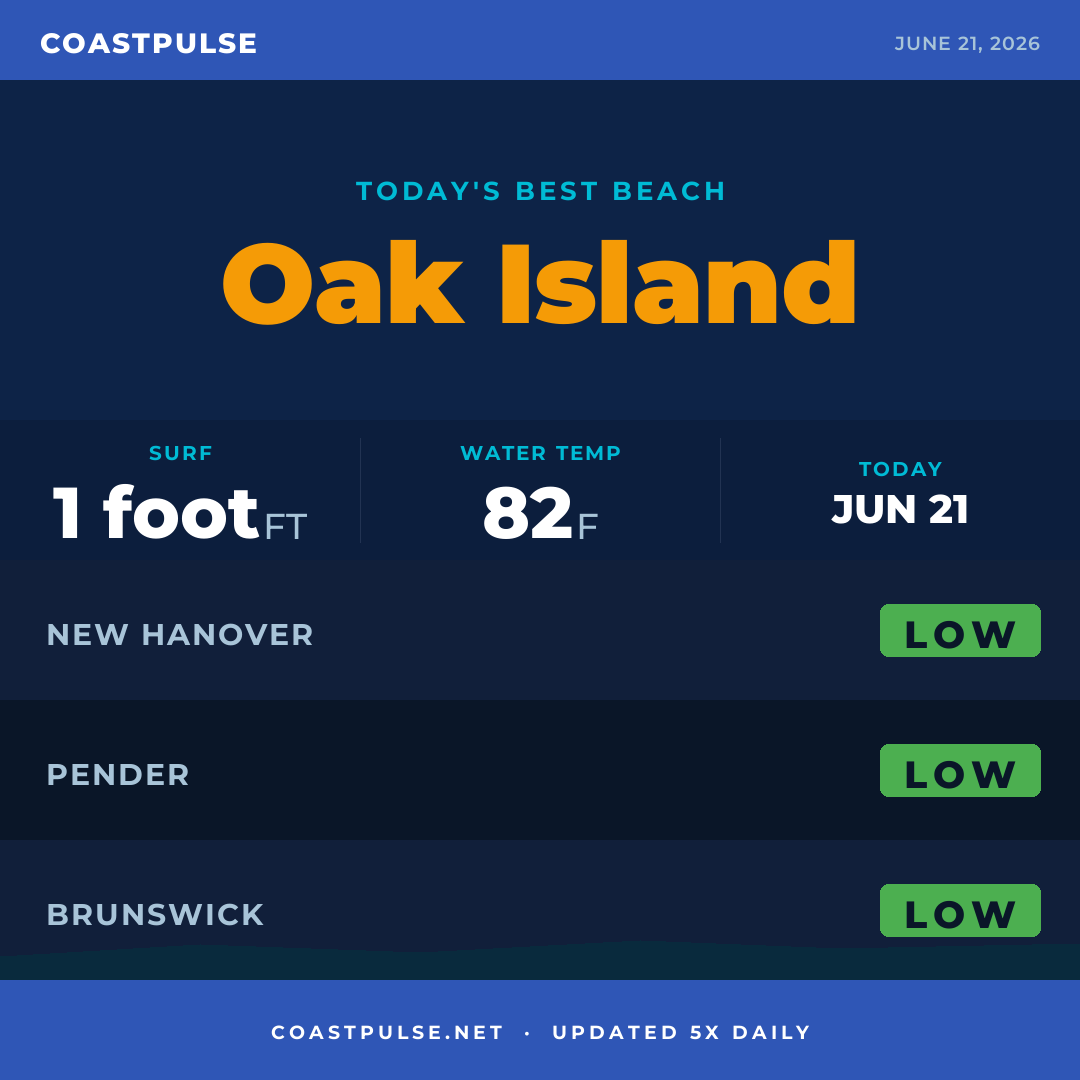
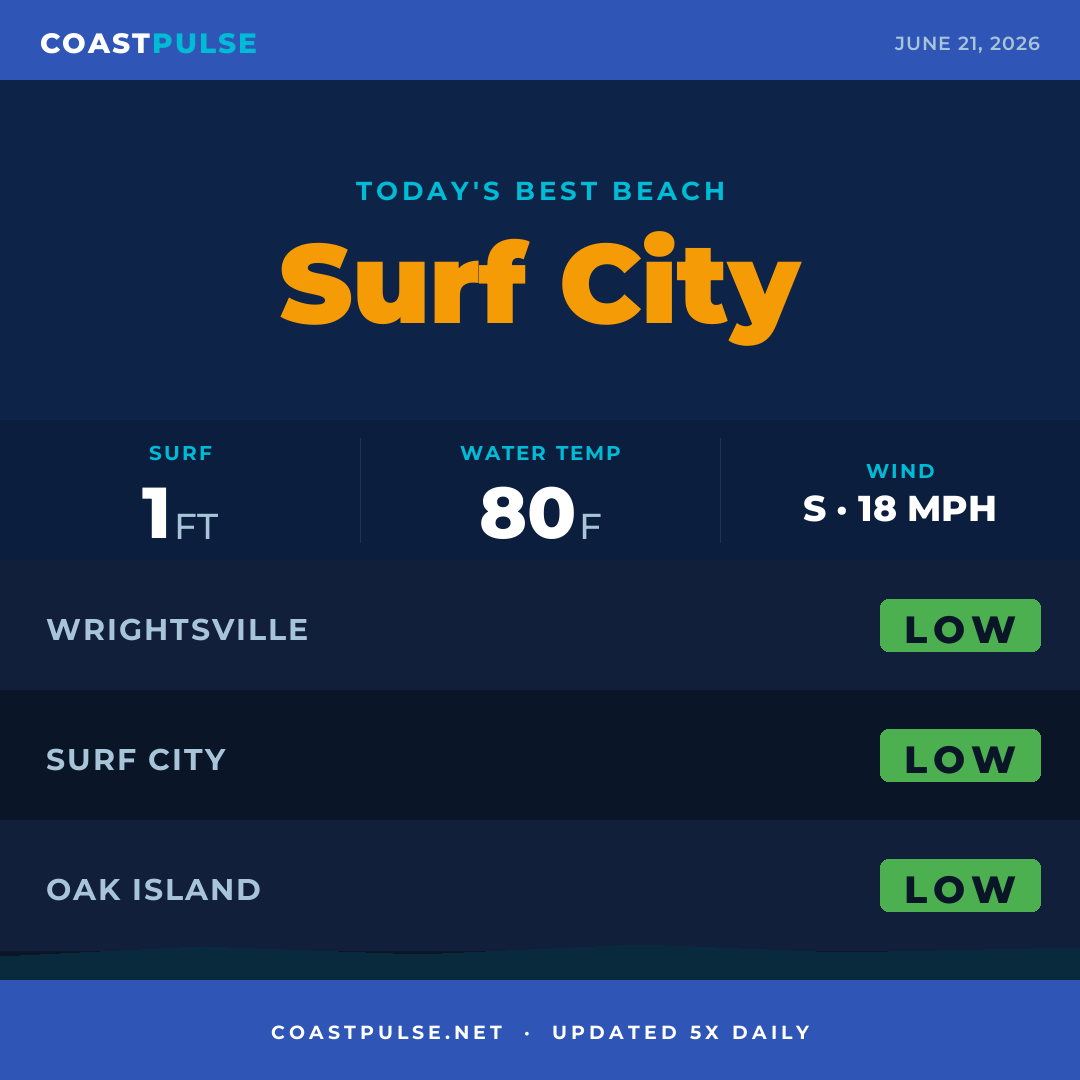
Update report — June 21, 2026

diff --git a/southeastern-nc/index.html b/southeastern-nc/index.html
@@ -199,13 +199,13 @@ a:hover{color:var(--hazard-marine)}
 <div class="cp-page">
 <div class="cp-nav"><a class="cp-nav-brand" href="https://coastpulse.net/" aria-label="CoastPulse home">Coast<span>Pulse</span></a><div class="cp-nav-links"><a href="https://coastpulse.net/southeastern-nc/" class="cp-nav-active">SE NC</a><a href="https://coastpulse.net/myrtle-beach/" class="">Myrtle Beach</a><span class="cp-nav-sep">|</span><a href="#cp-tides">Tides</a><a href="#cp-dogs">Dogs</a><a href="#cp-guide">Guide</a></div></div>
 <div class="cp-alert-banner " role="alert" aria-live="polite"><span class="cp-alert-icon">⚠️</span><div class="cp-alert-content"><div class="cp-alert-eyebrow">NWS Beach Hazards Statement</div><div class="cp-alert-main">Beach Hazards Statement — Beach Hazards Statement issued June 21 at 7:50PM EDT until June 22 at 8:00PM EDT by NWS Wilmington NC</div></div><span class="cp-alert-tag">Official advisory</span></div>
-<div class="cp-hero"><div class="cp-hero-tag">Southeastern NC beaches</div><h1>Sunday beach report</h1><div class="cp-hero-sub">Data as of June 21, 2026 at 08:55 PM ET · Updated 5× daily from NWS Wilmington &amp; NOAA</div><div class="cp-county-tabs"><a class="cp-tab" href="#cp-county-0">New Hanover County</a><a class="cp-tab" href="#cp-county-1">Pender County</a><a class="cp-tab" href="#cp-county-2">Brunswick County</a></div></div>
+<div class="cp-hero"><div class="cp-hero-tag">Southeastern NC beaches</div><h1>Sunday beach report</h1><div class="cp-hero-sub">Data as of June 21, 2026 at 11:10 PM ET · Updated 5× daily from NWS Wilmington &amp; NOAA</div><div class="cp-county-tabs"><a class="cp-tab" href="#cp-county-0">New Hanover County</a><a class="cp-tab" href="#cp-county-1">Pender County</a><a class="cp-tab" href="#cp-county-2">Brunswick County</a></div></div>
 <div class="cp-body" id="cp-conditions">
-<div class="cp-card" id="cp-county-0"><div class="cp-card-header"><span class="cp-card-title">🏖️ New Hanover County</span><span class="cp-card-updated">Wrightsville Beach · Carolina Beach · Kure Beach</span></div><div class="cp-card-body"><div class="cp-row"><span class="cp-label">Rip current risk</span><div class="cp-badge badge-low" role="img" aria-label="Rip current risk: Low risk"><span class="bd">✅</span><span class="bl">Low risk</span></div></div><div class="cp-row"><span class="cp-label">Surf height</span><span class="cp-value">1 foot <span class="cp-surf-verdict surf-mild">Mild</span></span></div><div class="cp-note">Watch for the strong south-to-north longshore current tomorrow, especially if you&#x27;re planning to stay in one spot, and remember that morning low tide at 10:50 AM is your prime shelling window before the next run.</div><div class="cp-nearby-row"><span class="cp-label">Nearby beaches</span><div class="cp-nearby-chips"><span class="cp-nearby-chip">Wrightsville Beach</span><span class="cp-nearby-chip">Carolina Beach<span class="cp-nearby-mi"> 13 mi</span></span><span class="cp-nearby-chip">Kure Beach<span class="cp-nearby-mi"> 16 mi</span></span><span class="cp-nearby-chip">Masonboro Island<span class="cp-nearby-mi"> 8 mi</span></span></div></div></div></div>
-<div class="cp-card" id="cp-county-1"><div class="cp-card-header"><span class="cp-card-title">🏖️ Pender County</span><span class="cp-card-updated">Surf City · Topsail Beach</span></div><div class="cp-card-body"><div class="cp-row"><span class="cp-label">Rip current risk</span><div class="cp-badge badge-low" role="img" aria-label="Rip current risk: Low risk"><span class="bd">✅</span><span class="bl">Low risk</span></div></div><div class="cp-row"><span class="cp-label">Surf height</span><span class="cp-value">1–3 ft <span class="cp-surf-verdict surf-mild">Mild</span></span></div><div class="cp-note">The moderate south-to-north longshore current tomorrow is manageable with low rip current risk, but stay aware of the current&#x27;s drift if you&#x27;re swimming or floating for a while.</div><div class="cp-nearby-row"><span class="cp-label">Nearby beaches</span><div class="cp-nearby-chips"><span class="cp-nearby-chip">Surf City</span><span class="cp-nearby-chip">Topsail Beach<span class="cp-nearby-mi"> 3 mi</span></span><span class="cp-nearby-chip">North Topsail Beach<span class="cp-nearby-mi"> 8 mi</span></span><span class="cp-nearby-chip">Figure Eight Island<span class="cp-nearby-mi"> 18 mi</span></span></div></div></div></div>
-<div class="cp-card" id="cp-county-2"><div class="cp-card-header"><span class="cp-card-title">🏖️ Brunswick County</span><span class="cp-card-updated">Oak Island · Holden Beach · Ocean Isle Beach · Sunset Beach</span></div><div class="cp-card-body"><div class="cp-row"><span class="cp-label">Rip current risk</span><div class="cp-badge badge-low" role="img" aria-label="Rip current risk: Low risk"><span class="bd">✅</span><span class="bl">Low risk</span></div></div><div class="cp-row"><span class="cp-label">Surf height</span><span class="cp-value">1–3 ft <span class="cp-surf-verdict surf-mild">Mild</span></span></div><div class="cp-note">Catch the moderate west-to-east longshore current in the morning tomorrow before it shifts, and note that low tide arrives at 10:50 AM for the best shelling opportunity of the day.</div><div class="cp-nearby-row"><span class="cp-label">Nearby beaches</span><div class="cp-nearby-chips"><span class="cp-nearby-chip">Oak Island</span><span class="cp-nearby-chip">Holden Beach<span class="cp-nearby-mi"> 12 mi</span></span><span class="cp-nearby-chip">Ocean Isle Beach<span class="cp-nearby-mi"> 20 mi</span></span><span class="cp-nearby-chip">Sunset Beach<span class="cp-nearby-mi"> 25 mi</span></span><span class="cp-nearby-chip">Bald Head Island<span class="cp-nearby-mi"> 14 mi</span></span></div></div></div></div>
-<div class="cp-card"><div class="cp-card-header"><span class="cp-card-title">🕐 Hourly forecast</span><span class="cp-card-updated">Next 10 hours · Wrightsville Beach ref.</span></div><div class="cp-hourly-scroll"><div class="cp-hourly-slot"><div class="cp-hourly-time">8<span style='font-size:9px'> PM</span></div><div class="cp-hourly-icon">☀️</div><div class="cp-hourly-temp">82°</div><div class="cp-hourly-rain" style="color:#999">1%</div></div><div class="cp-hourly-slot"><div class="cp-hourly-time">9<span style='font-size:9px'> PM</span></div><div class="cp-hourly-icon">☀️</div><div class="cp-hourly-temp">81°</div><div class="cp-hourly-rain" style="color:#999">1%</div></div><div class="cp-hourly-slot"><div class="cp-hourly-time">10<span style='font-size:9px'> PM</span></div><div class="cp-hourly-icon">☀️</div><div class="cp-hourly-temp">80°</div><div class="cp-hourly-rain" style="color:#999">1%</div></div><div class="cp-hourly-slot"><div class="cp-hourly-time">11<span style='font-size:9px'> PM</span></div><div class="cp-hourly-icon">☀️</div><div class="cp-hourly-temp">80°</div><div class="cp-hourly-rain" style="color:#999">2%</div></div><div class="cp-hourly-slot"><div class="cp-hourly-time">12<span style='font-size:9px'> AM</span></div><div class="cp-hourly-icon">☁️</div><div class="cp-hourly-temp">79°</div><div class="cp-hourly-rain" style="color:#999">2%</div></div><div class="cp-hourly-slot"><div class="cp-hourly-time">1<span style='font-size:9px'> AM</span></div><div class="cp-hourly-icon">☁️</div><div class="cp-hourly-temp">79°</div><div class="cp-hourly-rain" style="color:#999">2%</div></div><div class="cp-hourly-slot"><div class="cp-hourly-time">2<span style='font-size:9px'> AM</span></div><div class="cp-hourly-icon">☀️</div><div class="cp-hourly-temp">79°</div><div class="cp-hourly-rain" style="color:#999">2%</div></div><div class="cp-hourly-slot"><div class="cp-hourly-time">3<span style='font-size:9px'> AM</span></div><div class="cp-hourly-icon">☀️</div><div class="cp-hourly-temp">79°</div><div class="cp-hourly-rain" style="color:#999">2%</div></div><div class="cp-hourly-slot"><div class="cp-hourly-time">4<span style='font-size:9px'> AM</span></div><div class="cp-hourly-icon">☁️</div><div class="cp-hourly-temp">79°</div><div class="cp-hourly-rain" style="color:#999">2%</div></div><div class="cp-hourly-slot"><div class="cp-hourly-time">5<span style='font-size:9px'> AM</span></div><div class="cp-hourly-icon">☁️</div><div class="cp-hourly-temp">78°</div><div class="cp-hourly-rain" style="color:#999">3%</div></div></div></div>
-<div class="cp-card"><div class="cp-card-header"><span class="cp-card-title">🌟 Best beach bet</span></div><div class="cp-card-body"><div class="cp-row"><span class="cp-label">Top pick today</span><span class="cp-value">Surf City (Pender County)</span></div><div class="cp-note">Pender&#x27;s got slightly bigger surf in the 1 to 3 foot range with calm southwest winds around 10 mph, giving you the smoothest water and gentlest conditions for swimming or paddling tomorrow.</div></div></div>
+<div class="cp-card" id="cp-county-0"><div class="cp-card-header"><span class="cp-card-title">🏖️ New Hanover County</span><span class="cp-card-updated">Wrightsville Beach · Carolina Beach · Kure Beach</span></div><div class="cp-card-body"><div class="cp-row"><span class="cp-label">Rip current risk</span><div class="cp-badge badge-low" role="img" aria-label="Rip current risk: Low risk"><span class="bd">✅</span><span class="bl">Low risk</span></div></div><div class="cp-row"><span class="cp-label">Surf height</span><span class="cp-value">1 foot <span class="cp-surf-verdict surf-mild">Mild</span></span></div><div class="cp-note">Watch the strong south-to-north longshore current tomorrow, especially if you&#x27;re planning a longer swim or wade, since it&#x27;ll push you steadily up the beach.</div><div class="cp-nearby-row"><span class="cp-label">Nearby beaches</span><div class="cp-nearby-chips"><span class="cp-nearby-chip">Wrightsville Beach</span><span class="cp-nearby-chip">Carolina Beach<span class="cp-nearby-mi"> 13 mi</span></span><span class="cp-nearby-chip">Kure Beach<span class="cp-nearby-mi"> 16 mi</span></span><span class="cp-nearby-chip">Masonboro Island<span class="cp-nearby-mi"> 8 mi</span></span></div></div></div></div>
+<div class="cp-card" id="cp-county-1"><div class="cp-card-header"><span class="cp-card-title">🏖️ Pender County</span><span class="cp-card-updated">Surf City · Topsail Beach</span></div><div class="cp-card-body"><div class="cp-row"><span class="cp-label">Rip current risk</span><div class="cp-badge badge-low" role="img" aria-label="Rip current risk: Low risk"><span class="bd">✅</span><span class="bl">Low risk</span></div></div><div class="cp-row"><span class="cp-label">Surf height</span><span class="cp-value">1–3 ft <span class="cp-surf-verdict surf-mild">Mild</span></span></div><div class="cp-note">The moderate south-to-north longshore current and 1 to 3-foot surf tomorrow mean you&#x27;ll have enough swell to play in without the risk of rough water or dangerous rips.</div><div class="cp-nearby-row"><span class="cp-label">Nearby beaches</span><div class="cp-nearby-chips"><span class="cp-nearby-chip">Surf City</span><span class="cp-nearby-chip">Topsail Beach<span class="cp-nearby-mi"> 3 mi</span></span><span class="cp-nearby-chip">North Topsail Beach<span class="cp-nearby-mi"> 8 mi</span></span><span class="cp-nearby-chip">Figure Eight Island<span class="cp-nearby-mi"> 18 mi</span></span></div></div></div></div>
+<div class="cp-card" id="cp-county-2"><div class="cp-card-header"><span class="cp-card-title">🏖️ Brunswick County</span><span class="cp-card-updated">Oak Island · Holden Beach · Ocean Isle Beach · Sunset Beach</span></div><div class="cp-card-body"><div class="cp-row"><span class="cp-label">Rip current risk</span><div class="cp-badge badge-low" role="img" aria-label="Rip current risk: Low risk"><span class="bd">✅</span><span class="bl">Low risk</span></div></div><div class="cp-row"><span class="cp-label">Surf height</span><span class="cp-value">1–3 ft <span class="cp-surf-verdict surf-mild">Mild</span></span></div><div class="cp-note">Tomorrow morning you&#x27;ll catch a moderate west-to-east longshore current before it shifts, so time your early beach visit if you want to work with the current instead of against it.</div><div class="cp-nearby-row"><span class="cp-label">Nearby beaches</span><div class="cp-nearby-chips"><span class="cp-nearby-chip">Oak Island</span><span class="cp-nearby-chip">Holden Beach<span class="cp-nearby-mi"> 12 mi</span></span><span class="cp-nearby-chip">Ocean Isle Beach<span class="cp-nearby-mi"> 20 mi</span></span><span class="cp-nearby-chip">Sunset Beach<span class="cp-nearby-mi"> 25 mi</span></span><span class="cp-nearby-chip">Bald Head Island<span class="cp-nearby-mi"> 14 mi</span></span></div></div></div></div>
+<div class="cp-card"><div class="cp-card-header"><span class="cp-card-title">🕐 Hourly forecast</span><span class="cp-card-updated">Next 10 hours · Wrightsville Beach ref.</span></div><div class="cp-hourly-scroll"><div class="cp-hourly-slot"><div class="cp-hourly-time">11<span style='font-size:9px'> PM</span></div><div class="cp-hourly-icon">☀️</div><div class="cp-hourly-temp">80°</div><div class="cp-hourly-rain" style="color:#999">2%</div></div><div class="cp-hourly-slot"><div class="cp-hourly-time">12<span style='font-size:9px'> AM</span></div><div class="cp-hourly-icon">☁️</div><div class="cp-hourly-temp">79°</div><div class="cp-hourly-rain" style="color:#999">2%</div></div><div class="cp-hourly-slot"><div class="cp-hourly-time">1<span style='font-size:9px'> AM</span></div><div class="cp-hourly-icon">☁️</div><div class="cp-hourly-temp">79°</div><div class="cp-hourly-rain" style="color:#999">2%</div></div><div class="cp-hourly-slot"><div class="cp-hourly-time">2<span style='font-size:9px'> AM</span></div><div class="cp-hourly-icon">☀️</div><div class="cp-hourly-temp">79°</div><div class="cp-hourly-rain" style="color:#999">2%</div></div><div class="cp-hourly-slot"><div class="cp-hourly-time">3<span style='font-size:9px'> AM</span></div><div class="cp-hourly-icon">☀️</div><div class="cp-hourly-temp">79°</div><div class="cp-hourly-rain" style="color:#999">2%</div></div><div class="cp-hourly-slot"><div class="cp-hourly-time">4<span style='font-size:9px'> AM</span></div><div class="cp-hourly-icon">☁️</div><div class="cp-hourly-temp">79°</div><div class="cp-hourly-rain" style="color:#999">2%</div></div><div class="cp-hourly-slot"><div class="cp-hourly-time">5<span style='font-size:9px'> AM</span></div><div class="cp-hourly-icon">☁️</div><div class="cp-hourly-temp">78°</div><div class="cp-hourly-rain" style="color:#999">3%</div></div><div class="cp-hourly-slot"><div class="cp-hourly-time">6<span style='font-size:9px'> AM</span></div><div class="cp-hourly-icon">☀️</div><div class="cp-hourly-temp">78°</div><div class="cp-hourly-rain" style="color:#999">3%</div></div><div class="cp-hourly-slot"><div class="cp-hourly-time">7<span style='font-size:9px'> AM</span></div><div class="cp-hourly-icon">☀️</div><div class="cp-hourly-temp">79°</div><div class="cp-hourly-rain" style="color:#999">4%</div></div><div class="cp-hourly-slot"><div class="cp-hourly-time">8<span style='font-size:9px'> AM</span></div><div class="cp-hourly-icon">☀️</div><div class="cp-hourly-temp">80°</div><div class="cp-hourly-rain" style="color:#999">6%</div></div></div></div>
+<div class="cp-card"><div class="cp-card-header"><span class="cp-card-title">🌟 Best beach bet</span></div><div class="cp-card-body"><div class="cp-row"><span class="cp-label">Top pick today</span><span class="cp-value">Surf City (Pender County)</span></div><div class="cp-note">A strong south-to-north longshore current and 1 to 3-foot waves make tomorrow ideal for swimmers and body surfers who want a little more action than flat-water conditions, plus the moderate longshore will keep you moving along the beach without fighting the water.</div></div></div>
 <div class="cp-card"><div class="cp-card-header"><span class="cp-card-title">📋 Plan your beach day</span><span class="cp-card-updated">Condition-aware tips</span></div><ul class="cp-tips-list"><li class="cp-tip-item"><span class="cp-tip-icon">☀️</span><span class="cp-tip-text">Clear skies ahead — no significant rain in the next 10 hours. Great day to stay all day.</span></li><li class="cp-tip-item"><span class="cp-tip-icon">🏊</span><span class="cp-tip-text">Surf is 1 foot — great conditions for swimming, paddleboarding, or a first-time ocean dip.</span></li><li class="cp-tip-item"><span class="cp-tip-icon">🐚</span><span class="cp-tip-text">Low tide is prime shelling time — the wider the dry sand, the better the finds. Check the tide table below to plan your walk.</span></li></ul></div>
 <div class="cp-card" id="cp-tides"><div class="cp-card-header"><span class="cp-card-title">🌊 Tides &amp; daylight</span><span class="cp-card-updated">NOAA CO-OPS · Wrightsville Beach</span></div><div class="cp-card-body"><div class="cp-row"><span class="cp-label">🌅 Sunrise</span><span class="cp-value">5:59 AM</span></div><div class="cp-row" style="margin-top:-6px;"><span></span><span class="cp-note" style="border-top:none;padding-top:0;margin-top:0;">EDT</span></div><div class="cp-row"><span class="cp-label">🌊 High Tide</span><span class="cp-value">4:18 AM &amp; &amp; 4:56 PM</span></div><div class="cp-row" style="margin-top:-6px;"><span></span><span class="cp-note" style="border-top:none;padding-top:0;margin-top:0;">4.4 ft</span></div><div class="cp-row"><span class="cp-label">🏖️ Low Tide</span><span class="cp-value">10:50 AM &amp; &amp; 11:21 PM</span></div><div class="cp-row" style="margin-top:-6px;"><span></span><span class="cp-note" style="border-top:none;padding-top:0;margin-top:0;">Great shelling window</span></div><div class="cp-row"><span class="cp-label">🌆 Sunset</span><span class="cp-value">8:26 PM</span></div><div class="cp-row" style="margin-top:-6px;"><span></span><span class="cp-note" style="border-top:none;padding-top:0;margin-top:0;">EDT</span></div><div class="cp-row"><span class="cp-label">☀️ Sky</span><span class="cp-value">Sunny</span></div><div class="cp-row" style="margin-top:-6px;"><span></span><span class="cp-note" style="border-top:none;padding-top:0;margin-top:0;">Mild &amp; pleasant</span></div></div></div>
 <div><div class="cp-section-label">3-day forecast</div><div class="cp-card"><div class="cp-forecast"><div class="cp-fc-day"><div class="cp-fc-label">Mon, Jun 22</div><div class="cp-fc-icon">☀️</div><div class="cp-fc-temp">High <strong>83°F</strong> &middot; Low <strong>80°F</strong></div><div class="cp-fc-cond">Sunny</div><div class="cp-fc-detail">S 8 to 18 mph &middot; Waves 1 foot &middot; Rip risk Low (New Hanover)</div></div><div class="cp-fc-day"><div class="cp-fc-label">Tue, Jun 23</div><div class="cp-fc-icon">⛈️</div><div class="cp-fc-temp">High <strong>86°F</strong> &middot; Low <strong>76°F</strong></div><div class="cp-fc-cond">Sunny then Slight Chance Showers And Thunderstorms</div><div class="cp-fc-detail">SW 12 to 15 mph &middot; Monitor rip outlook</div></div><div class="cp-fc-day"><div class="cp-fc-label">Wed, Jun 24</div><div class="cp-fc-icon">🌤️</div><div class="cp-fc-temp">High <strong>81°F</strong> &middot; Low <strong>77°F</strong></div><div class="cp-fc-cond">Mostly Sunny</div><div class="cp-fc-detail">NE 12 mph &middot; Monitor rip outlook</div></div></div></div></div>
@@ -216,5 +216,5 @@ a:hover{color:var(--hazard-marine)}
 <div class="cp-card" id="cp-guide"><div class="cp-card-header"><span class="cp-card-title">Rip Current &amp; Hazard Scale</span></div><div class="cp-badge-gallery"><div class="cp-badge-row"><div class="cp-badge badge-low"><span class="bd">✅</span><span class="bl">Low risk</span></div><span class="cp-badge-desc">Safe for most swimmers near a lifeguard</span></div><div class="cp-badge-row"><div class="cp-badge badge-mod"><span class="bd">⚠️</span><span class="bl">Moderate risk</span></div><span class="cp-badge-desc">Weak swimmers should stay out; others use caution</span></div><div class="cp-badge-row"><div class="cp-badge badge-high"><span class="bd">🚨</span><span class="bl">High risk</span></div><span class="cp-badge-desc">Only strong swimmers — rip currents likely</span></div><div class="cp-badge-row"><div class="cp-badge badge-closed"><span class="bd">🚫</span><span class="bl">Closure advisory</span></div><span class="cp-badge-desc">Beach closed — no swimming</span></div><div class="cp-badge-row"><div class="cp-badge badge-marine"><span class="bd">🐠</span><span class="bl">Marine alert</span></div><span class="cp-badge-desc">Active NWS marine or surf zone warning</span></div></div></div>
 </div>
 <div class="cp-card" style="max-width:520px;margin:20px auto;text-align:center;padding:28px 24px;"><style>.formkit-form[data-uid="1f4e99c79d"] {  background:transparent!important;border:none!important;  box-shadow:none!important;padding:0!important;margin:0!important;}.formkit-form[data-uid="1f4e99c79d"] .formkit-submit {  background:#00BBD5!important;border-radius:8px!important;  font-weight:700!important;}.formkit-form[data-uid="1f4e99c79d"] input[data-element="email"] {  border-radius:8px!important;border:1px solid #dde3f0!important;  font-family:inherit!important;}</style><div style="font-size:26px;margin-bottom:8px;">📬</div><h3 style="color:#2F56B6;margin:0 0 6px;font-size:18px;font-weight:700;">Get Daily Beach Conditions</h3><p style="color:#666;font-size:14px;margin:0 0 18px;line-height:1.5;">Free email every morning at 8 AM — rip current risk, best beach, and tides. No spam, unsubscribe anytime.</p><script async data-uid="1f4e99c79d" src="https://coastpulse.kit.com/1f4e99c79d/index.js"></script></div>
-<div class="cp-footer"><div class="cp-footer-row"><div><div><strong>CoastPulse &middot; Southeastern NC</strong></div><div>Updated: June 21, 2026 at 08:55 PM ET &middot; Data: NWS Wilmington &amp;amp; NOAA &middot; <a href="https://coastpulse.net/">coastpulse.net</a></div><div>Always verify current conditions at <a href="https://weather.gov/ilm" target="_blank" rel="noopener">weather.gov/ilm</a> before entering the water.</div><div class="cp-footer-regions">Other reports: <a href="https://coastpulse.net/myrtle-beach/">Grand Strand</a></div><div class="cp-footer-regions" style="margin-top:6px;"><a href="https://coastpulse.net/privacy/">Privacy Policy</a> · <a href="https://coastpulse.net/terms/">Terms of Service</a></div></div></div></div>
+<div class="cp-footer"><div class="cp-footer-row"><div><div><strong>CoastPulse &middot; Southeastern NC</strong></div><div>Updated: June 21, 2026 at 11:10 PM ET &middot; Data: NWS Wilmington &amp;amp; NOAA &middot; <a href="https://coastpulse.net/">coastpulse.net</a></div><div>Always verify current conditions at <a href="https://weather.gov/ilm" target="_blank" rel="noopener">weather.gov/ilm</a> before entering the water.</div><div class="cp-footer-regions">Other reports: <a href="https://coastpulse.net/myrtle-beach/">Grand Strand</a></div><div class="cp-footer-regions" style="margin-top:6px;"><a href="https://coastpulse.net/privacy/">Privacy Policy</a> · <a href="https://coastpulse.net/terms/">Terms of Service</a></div></div></div></div>
 </div></body></html>

diff --git a/index.html b/index.html
@@ -195,4 +195,4 @@ a:hover{color:var(--hazard-marine)}
   .cp-fc-day{min-width:90px}
   .cp-hub-grid{grid-template-columns:1fr;padding:12px}
 }
-</style></head><body><div class="cp-hub-hero"><h1>Coast<span style="color:var(--cp-surf-blue)">Pulse</span></h1><p>Real-time beach conditions for the Southeast Atlantic coast</p></div><div class="cp-nav" style="position:relative;"><a class="cp-nav-brand" href="https://coastpulse.net/">Coast<span>Pulse</span></a><div class="cp-nav-links"><a href="https://coastpulse.net/southeastern-nc/">SE NC</a><a href="https://coastpulse.net/myrtle-beach/">Myrtle Beach</a></div></div><div class="cp-hub-grid"><div class="cp-hub-card"><div class="cp-hub-card-header"><div class="cp-hub-card-title">Southeastern NC</div><div class="cp-hub-card-sub">New Hanover · Pender · Brunswick Counties</div></div><div class="cp-hub-card-body"><div class="cp-hub-risks"><div class="cp-hub-risk-row"><span class="cp-hub-county">New Hanover</span><div class="cp-badge badge-low" role="img" aria-label="Rip current risk: Low risk"><span class="bd">✅</span><span class="bl">Low risk</span></div></div><div class="cp-hub-risk-row"><span class="cp-hub-county">Pender</span><div class="cp-badge badge-low" role="img" aria-label="Rip current risk: Low risk"><span class="bd">✅</span><span class="bl">Low risk</span></div></div><div class="cp-hub-risk-row"><span class="cp-hub-county">Brunswick</span><div class="cp-badge badge-low" role="img" aria-label="Rip current risk: Low risk"><span class="bd">✅</span><span class="bl">Low risk</span></div></div></div><div class="cp-hub-bet">🌟 Best bet: <strong>Surf City (Pender County)</strong></div><div class="cp-hub-updated">Updated: June 21, 2026 at 08:55 PM ET</div></div><a class="cp-hub-cta" href="https://coastpulse.net/southeastern-nc/">Full report, tides &amp; forecast →</a></div><div class="cp-hub-card"><div class="cp-hub-card-header"><div class="cp-hub-card-title">Grand Strand</div><div class="cp-hub-card-sub">Horry · Georgetown Counties</div></div><div class="cp-hub-card-body"><div class="cp-hub-risks"><div class="cp-hub-risk-row"><span class="cp-hub-county">Horry</span><div class="cp-badge badge-low" role="img" aria-label="Rip current risk: Low risk"><span class="bd">✅</span><span class="bl">Low risk</span></div></div><div class="cp-hub-risk-row"><span class="cp-hub-county">Georgetown</span><div class="cp-badge badge-low" role="img" aria-label="Rip current risk: Low risk"><span class="bd">✅</span><span class="bl">Low risk</span></div></div></div><div class="cp-hub-bet">🌟 Best bet: <strong>Georgetown County</strong></div><div class="cp-hub-updated">Updated: June 21, 2026 at 08:55 PM ET</div></div><a class="cp-hub-cta" href="https://coastpulse.net/myrtle-beach/">Full report, tides &amp; forecast →</a></div></div><div class="cp-card" style="max-width:520px;margin:20px auto;text-align:center;padding:28px 24px;"><style>.formkit-form[data-uid="1f4e99c79d"] {  background:transparent!important;border:none!important;  box-shadow:none!important;padding:0!important;margin:0!important;}.formkit-form[data-uid="1f4e99c79d"] .formkit-submit {  background:#00BBD5!important;border-radius:8px!important;  font-weight:700!important;}.formkit-form[data-uid="1f4e99c79d"] input[data-element="email"] {  border-radius:8px!important;border:1px solid #dde3f0!important;  font-family:inherit!important;}</style><div style="font-size:26px;margin-bottom:8px;">📬</div><h3 style="color:#2F56B6;margin:0 0 6px;font-size:18px;font-weight:700;">Get Daily Beach Conditions</h3><p style="color:#666;font-size:14px;margin:0 0 18px;line-height:1.5;">Free email every morning at 8 AM — rip current risk, best beach, and tides. No spam, unsubscribe anytime.</p><script async data-uid="1f4e99c79d" src="https://coastpulse.kit.com/1f4e99c79d/index.js"></script></div><div class="cp-footer" style="margin-top:20px;"><div class="cp-footer-row"><div><div><strong>CoastPulse</strong></div><div>Real-time beach data from NOAA &amp; NWS · coastpulse.net</div><div>Always verify conditions before entering the water.</div></div></div></div></body></html>
+</style></head><body><div class="cp-hub-hero"><h1>Coast<span style="color:var(--cp-surf-blue)">Pulse</span></h1><p>Real-time beach conditions for the Southeast Atlantic coast</p></div><div class="cp-nav" style="position:relative;"><a class="cp-nav-brand" href="https://coastpulse.net/">Coast<span>Pulse</span></a><div class="cp-nav-links"><a href="https://coastpulse.net/southeastern-nc/">SE NC</a><a href="https://coastpulse.net/myrtle-beach/">Myrtle Beach</a></div></div><div class="cp-hub-grid"><div class="cp-hub-card"><div class="cp-hub-card-header"><div class="cp-hub-card-title">Southeastern NC</div><div class="cp-hub-card-sub">New Hanover · Pender · Brunswick Counties</div></div><div class="cp-hub-card-body"><div class="cp-hub-risks"><div class="cp-hub-risk-row"><span class="cp-hub-county">New Hanover</span><div class="cp-badge badge-low" role="img" aria-label="Rip current risk: Low risk"><span class="bd">✅</span><span class="bl">Low risk</span></div></div><div class="cp-hub-risk-row"><span class="cp-hub-county">Pender</span><div class="cp-badge badge-low" role="img" aria-label="Rip current risk: Low risk"><span class="bd">✅</span><span class="bl">Low risk</span></div></div><div class="cp-hub-risk-row"><span class="cp-hub-county">Brunswick</span><div class="cp-badge badge-low" role="img" aria-label="Rip current risk: Low risk"><span class="bd">✅</span><span class="bl">Low risk</span></div></div></div><div class="cp-hub-bet">🌟 Best bet: <strong>Surf City (Pender County)</strong></div><div class="cp-hub-updated">Updated: June 21, 2026 at 11:10 PM ET</div></div><a class="cp-hub-cta" href="https://coastpulse.net/southeastern-nc/">Full report, tides &amp; forecast →</a></div><div class="cp-hub-card"><div class="cp-hub-card-header"><div class="cp-hub-card-title">Grand Strand</div><div class="cp-hub-card-sub">Horry · Georgetown Counties</div></div><div class="cp-hub-card-body"><div class="cp-hub-risks"><div class="cp-hub-risk-row"><span class="cp-hub-county">Horry</span><div class="cp-badge badge-low" role="img" aria-label="Rip current risk: Low risk"><span class="bd">✅</span><span class="bl">Low risk</span></div></div><div class="cp-hub-risk-row"><span class="cp-hub-county">Georgetown</span><div class="cp-badge badge-low" role="img" aria-label="Rip current risk: Low risk"><span class="bd">✅</span><span class="bl">Low risk</span></div></div></div><div class="cp-hub-bet">🌟 Best bet: <strong>Georgetown County</strong></div><div class="cp-hub-updated">Updated: June 21, 2026 at 08:55 PM ET</div></div><a class="cp-hub-cta" href="https://coastpulse.net/myrtle-beach/">Full report, tides &amp; forecast →</a></div></div><div class="cp-card" style="max-width:520px;margin:20px auto;text-align:center;padding:28px 24px;"><style>.formkit-form[data-uid="1f4e99c79d"] {  background:transparent!important;border:none!important;  box-shadow:none!important;padding:0!important;margin:0!important;}.formkit-form[data-uid="1f4e99c79d"] .formkit-submit {  background:#00BBD5!important;border-radius:8px!important;  font-weight:700!important;}.formkit-form[data-uid="1f4e99c79d"] input[data-element="email"] {  border-radius:8px!important;border:1px solid #dde3f0!important;  font-family:inherit!important;}</style><div style="font-size:26px;margin-bottom:8px;">📬</div><h3 style="color:#2F56B6;margin:0 0 6px;font-size:18px;font-weight:700;">Get Daily Beach Conditions</h3><p style="color:#666;font-size:14px;margin:0 0 18px;line-height:1.5;">Free email every morning at 8 AM — rip current risk, best beach, and tides. No spam, unsubscribe anytime.</p><script async data-uid="1f4e99c79d" src="https://coastpulse.kit.com/1f4e99c79d/index.js"></script></div><div class="cp-footer" style="margin-top:20px;"><div class="cp-footer-row"><div><div><strong>CoastPulse</strong></div><div>Real-time beach data from NOAA &amp; NWS · coastpulse.net</div><div>Always verify conditions before entering the water.</div></div></div></div></body></html>

diff --git a/widget-sunny.html b/widget-sunny.html
@@ -84,7 +84,7 @@ body { font-family: 'Montserrat', Arial, sans-serif; background: transparent; }
     <div class="w-row"><span class="w-county">New Hanover</span><div class="w-badge badge-low"><span class="bd">✅</span><span class="bl">Low risk</span></div></div><div class="w-row"><span class="w-county">Pender</span><div class="w-badge badge-low"><span class="bd">✅</span><span class="bl">Low risk</span></div></div><div class="w-row"><span class="w-county">Brunswick</span><div class="w-badge badge-low"><span class="bd">✅</span><span class="bl">Low risk</span></div></div>
     <hr class="w-divider">
     <div class="w-bet">🌟 Best bet: <strong>Surf City (Pender County)</strong></div>
-    <div class="w-updated">Updated: June 21, 2026 at 08:55 PM ET</div>
+    <div class="w-updated">Updated: June 21, 2026 at 11:10 PM ET</div>
   </div>
   <a class="w-cta" href="https://sunny1037.com/sunny-beach-report/" target="_blank">Full report, tides &amp; forecast →</a>
 </div>

diff --git a/widget.html b/widget.html
@@ -54,7 +54,7 @@ h1 { font-family: 'Montserrat', Arial, sans-serif; font-size: 22px; font-weight:
     <div class="w-row"><span class="w-county">New Hanover</span><div class="w-badge badge-low"><span class="bd">✅</span><span class="bl">Low risk</span></div></div><div class="w-row"><span class="w-county">Pender</span><div class="w-badge badge-low"><span class="bd">✅</span><span class="bl">Low risk</span></div></div><div class="w-row"><span class="w-county">Brunswick</span><div class="w-badge badge-low"><span class="bd">✅</span><span class="bl">Low risk</span></div></div>
     <hr class="w-divider">
     <div class="w-bet">🌟 Best bet: <strong>Surf City (Pender County)</strong></div>
-    <div class="w-updated">Updated: June 21, 2026 at 08:55 PM ET</div>
+    <div class="w-updated">Updated: June 21, 2026 at 11:10 PM ET</div>
   </div>
   <a class="w-cta" href="https://coastpulse.net/southeastern-nc/" target="_blank">Full report, tides &amp; forecast →</a>
 </div>